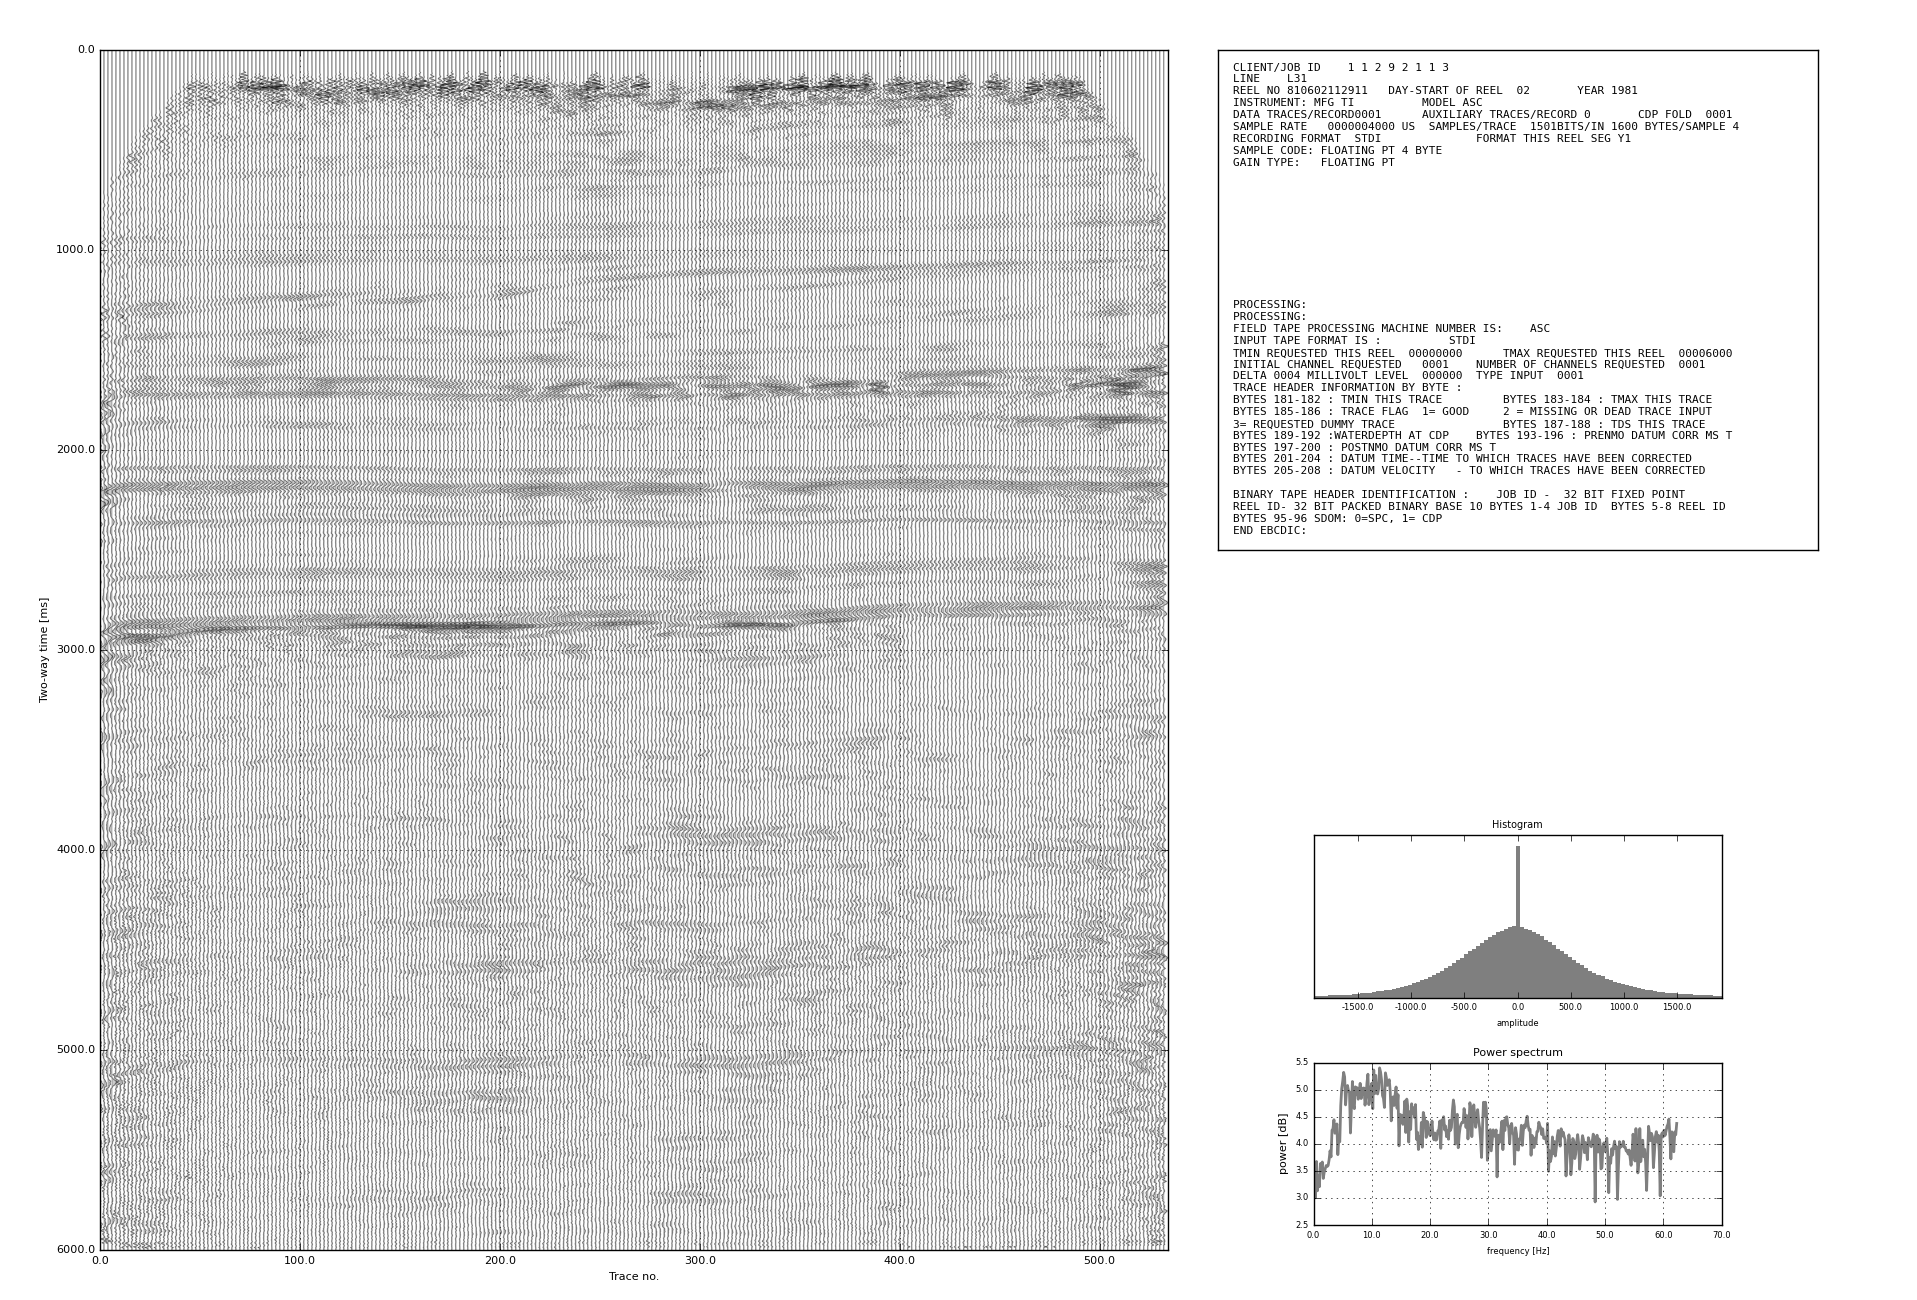
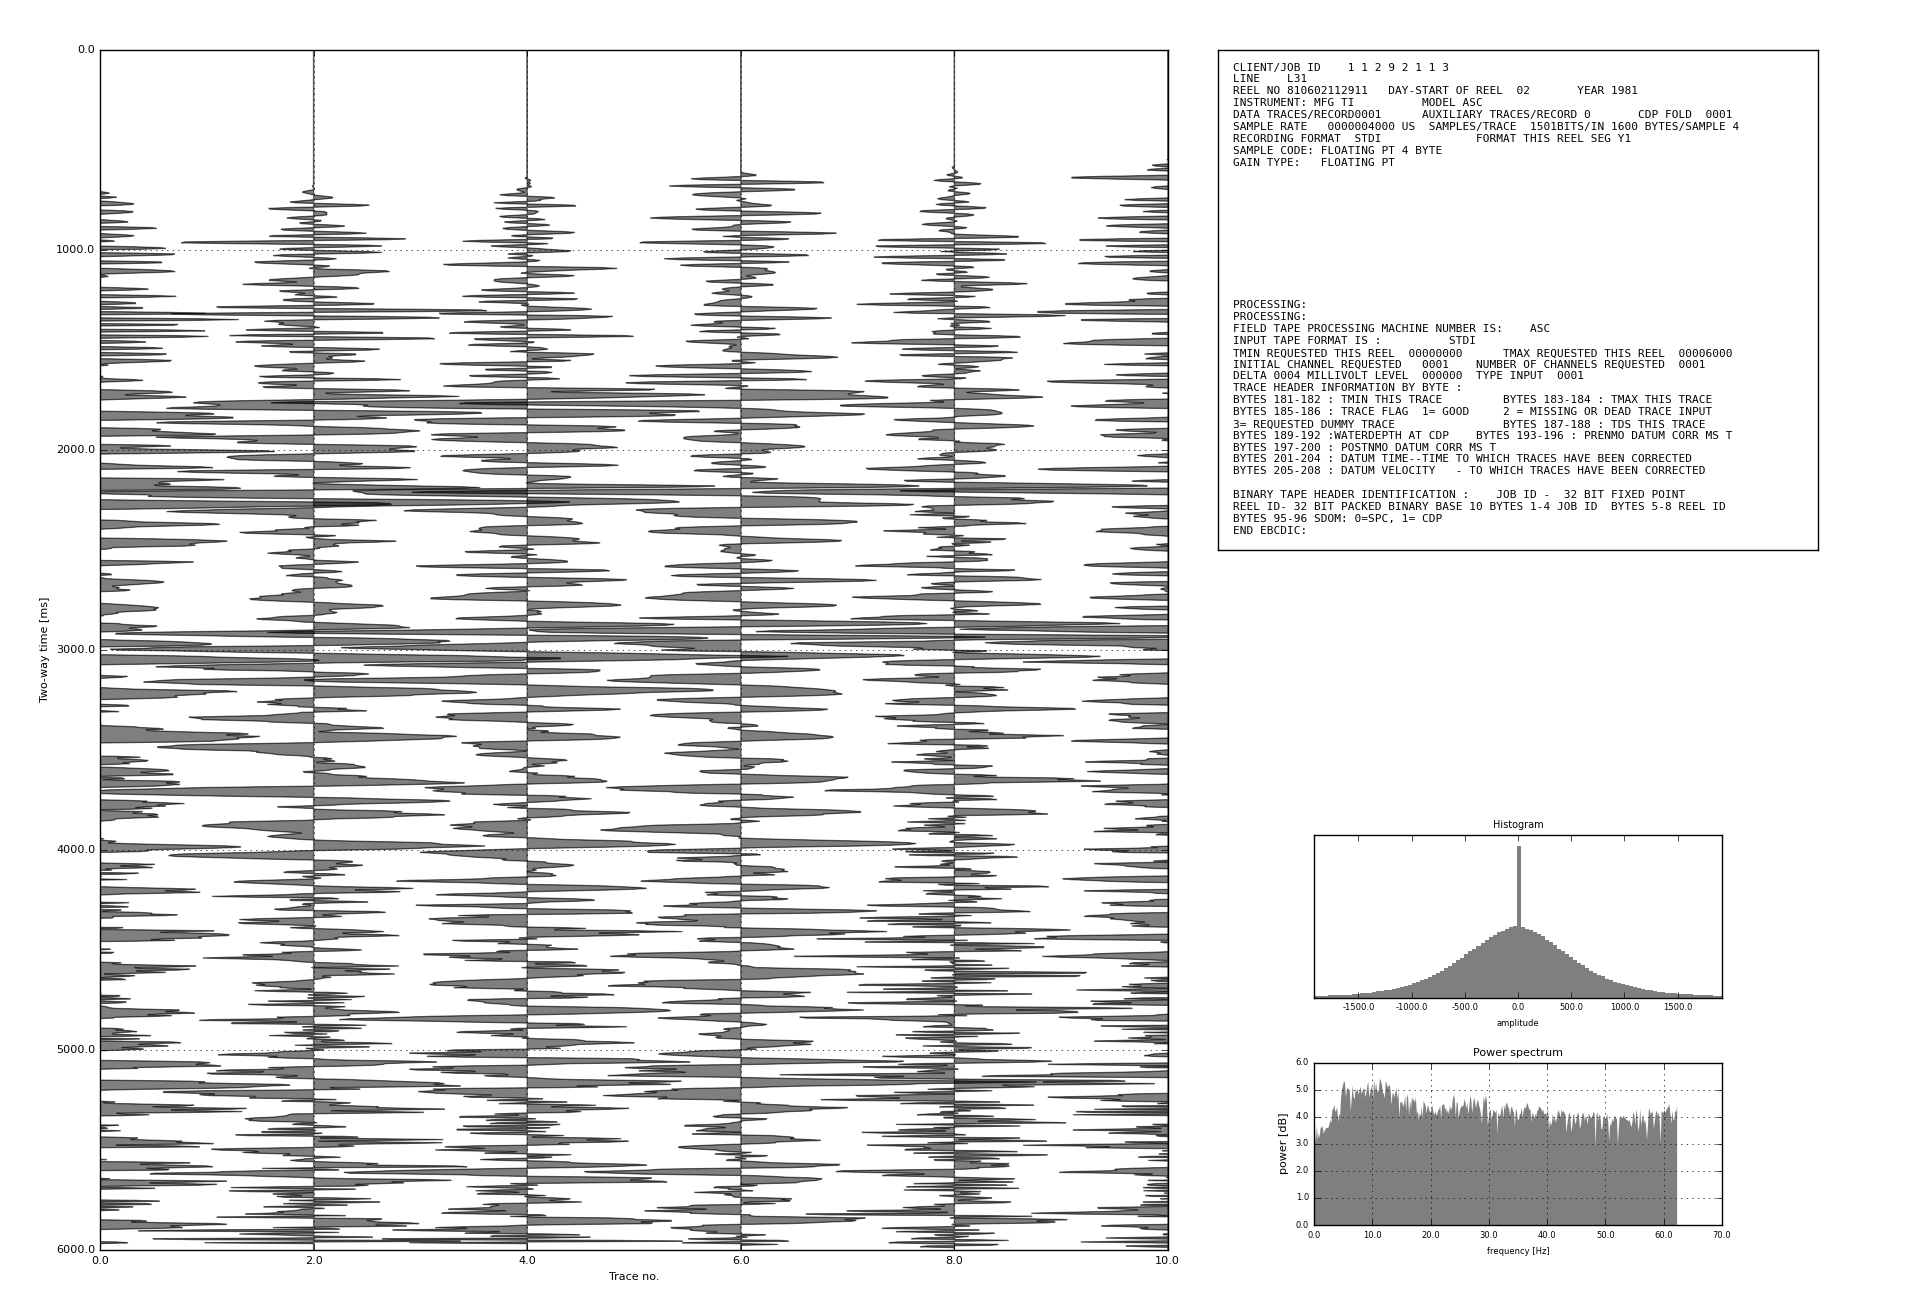
making first release

diff --git a/seisplot.py b/seisplot.py
@@ -15,16 +15,13 @@ import yaml
 import numpy as np
 from scipy import fft
 import matplotlib.pyplot as plt
-import matplotlib.cm as cm
 import matplotlib.font_manager as fm
-from matplotlib.backends.backend_pdf import PdfPages
 
 from obspy.segy.segy import readSEGY
 
 # Import our stuff.
 from notice import Notice
 from utils import add_subplot_axes
-from utils import make_patch_spines_invisible
 
 
 #####################################################################
@@ -33,25 +30,30 @@ from utils import make_patch_spines_invisible
 #
 #####################################################################
 
-def wigplot(ax, data, tbase, ntraces, skip=1, perc=98.0, gain=1.0):
+def wiggle_plot(ax, data, tbase, ntraces, skip=1, perc=98.0, gain=1.0, alpha=0.5):
     """
-    plots wiggle traces of seismic data
-    skip = 1, every trace, skip = 2, every second trace, etc.
+    Plots wiggle traces of seismic data. Skip=1, every trace, skip=2, every
+    second trace, etc.
     """
-    sc = np.percentile(data, perc)  # normalization factor
+    sc = np.percentile(data, perc)  # Normalization factor
     wigdata = data[:, ::skip]
     xpos = np.arange(ntraces)[::skip]
 
     for x, trace in zip(xpos, np.transpose(wigdata)):
         ax.plot(gain * trace / sc + x, tbase, 'k', lw=0.2)
-        ax.fill_betweenx(tbase, gain * trace / sc + x, x2=x, facecolor='k', alpha=0.2)
+        ax.fill_betweenx(tbase,
+                         gain * trace / sc + x,
+                         x2=x, facecolor='k',
+                         alpha=alpha)
     return ax
 
 
-def decorate_seismic(ax, fs=10):
+def decorate_seismic(ax, ntraces, fs=10):
     """
     Add various things to the seismic plot.
     """
+    ax.set_ylim(ax.get_ylim()[::-1])
+    ax.set_xlim([0, ntraces])
     ax.set_ylabel('Two-way time [ms]', fontsize=fs-2)
     ax.set_xlabel('Trace no.', fontsize=fs - 2)
     ax.set_xticklabels(ax.get_xticks(), fontsize=fs - 2)
@@ -94,9 +96,11 @@ def plot_spectrum(spec_ax, data, dt, fs=10):
     """
     S = abs(fft(data[:, 1]))
     faxis = np.fft.fftfreq(len(data[:, 1]), d=dt/10**6)
+    x = faxis[:len(faxis)//4]
+    y = np.log10(S[0:len(faxis)//4])
 
     spec_ax.patch.set_alpha(0.5)
-    spec_ax.plot(faxis[:len(faxis)//4], np.log10(S[0:len(faxis)//4]), 'k', lw=2, alpha=0.5)
+    spec_ax.fill_between(x, y, 0, lw=0, facecolor='k', alpha=0.5)
     spec_ax.set_xlabel('frequency [Hz]', fontsize=fs - 4)
     spec_ax.set_xticklabels(spec_ax.get_xticks(), fontsize=fs - 4)
     spec_ax.set_yticklabels(spec_ax.get_yticks(), fontsize=fs - 4)
@@ -148,7 +152,6 @@ def plot_histogram(hist_ax, data, fs=10):
     largest = max(np.amax(data), abs(np.amin(data)))
     clip_val = np.percentile(data, 99.0)
     hist_ax.patch.set_alpha(0.5)
-    #hist_ax.patch.set_lineweight(0)
     hist_ax.hist(np.ravel(data), bins=int(100.0 / (clip_val / largest)), 
                  alpha=0.5, color=['black'], lw=0)
     hist_ax.set_xlim(-clip_val, clip_val)
@@ -167,26 +170,23 @@ def main(target, cfg):
     # Read the file.
     section = readSEGY(target, unpack_headers=True)
 
-    elev, esp, ens = [], [], []  # energy source point number
-    for i, trace in enumerate(section.traces):
-        nsamples = trace.header.number_of_samples_in_this_trace
-        dt = trace.header.sample_interval_in_ms_for_this_trace
-        elev.append(trace.header.receiver_group_elevation)
-        esp.append(trace.header.energy_source_point_number)
-        ens.append(trace.header.ensemble_number)
-
+    # Calculate some things
+    nsamples = section.traces[0].header.number_of_samples_in_this_trace
+    dt = section.traces[0].header.sample_interval_in_ms_for_this_trace
     ntraces = len(section.traces)
     tbase = 0.001 * np.arange(0, nsamples * dt, dt)
     tstart = 0
     tend = np.amax(tbase)
-    # aspect = float(ntraces) / float(nsamples)
     wsd = ntraces / cfg['tpi']
-    hd = cfg['ips'] * (np.amax(tbase) - np.amin(tbase))/1000
-    aspect = wsd / hd
+
     # Build the data container
+    elev, esp, ens = [], [], []  # energy source point number
     data = np.zeros((nsamples, ntraces))
     for i, trace in enumerate(section.traces):
         data[:, i] = trace.data
+        elev.append(trace.header.receiver_group_elevation)
+        esp.append(trace.header.energy_source_point_number)
+        ens.append(trace.header.ensemble_number)
 
     clip_val = np.percentile(data, 99.0)
 
@@ -216,82 +216,44 @@ def main(target, cfg):
     fhh = 5  # File header height
     m = 0.5  # margin in inches
 
-    # One inch in height and width
-    # oih = 1/h
-    # oiw = 1/w
-
     # Margins, CSS like
     mt, mb, ml, mr = m, m, 2 * m, 2 * m
     mm = mr / 2  # padded margin between seismic and label
 
     # Width is determined by tpi, plus a constant for the sidelabel, plus 1 in
     w = ml + wsd + wsl + mr + mm
+
     # Height is given by ips, but with a minimum of 8 inches, plus 1 in
     h = max(mih, cfg['ips'] * (np.amax(tbase) - np.amin(tbase)) / 1000 + mt + mb)
-    # start of side label (ratio)
-    ssl = (ml + wsd + mm) / w
-    # Set the fontsize
+
+    # More settings
+    ssl = (ml + wsd + mm) / w  # Start of side label (ratio)
     fs = cfg['fontsize']
+
+    Notice.info("Width of plot   {} in".format(w))
+    Notice.info("Height of plot  {} in".format(h))
 
     ##################################
     # Make the figure.
     fig = plt.figure(figsize=(w, h), facecolor='w')
     ax = fig.add_axes([ml / w, mb / h, wsd / w, (h - mb - mt) / h])
-    # par1 = ax.twiny()
-    # par2 = ax.twiny()
 
-    # Offset the top spine of par2.  The ticks and label have already been
-    # placed on the top by twiny above.
-    # fig.subplots_adjust(top=0.75)
-    # par2.spines["top"].set_position(("axes", 1.2))
+    ax = wiggle_plot(ax,
+                     data,
+                     tbase,
+                     ntraces,
+                     skip=cfg['skip'],
+                     gain=cfg['gain'],
+                     alpha=cfg['opacity']
+                     )
 
-    # Having been created by twiny, par2 has its frame off, so the line of its
-    # detached spine is invisible.  First, activate the frame but make the
-    # patch and spines invisible.
-    # par2 = make_patch_spines_invisible(par2)
-
-    # Second, show the right spine.
-    # par2.spines["top"].set_visible(True)
-
-    # p2 = par1.plot(ens, np.zeros_like(ens))
-
-    # par1.set_xlabel("CDP number", fontsize=fs-2)
-    # par2.set_xlabel("source elevation", fontsize=fs-2)
-
-    ax = wigplot(ax, data, tbase, ntraces, skip=cfg['skip'], gain=cfg['gain'])
-    ax.set_ylim(ax.get_ylim()[::-1])
-    ax.set_xlim([0, ntraces])
     ax = decorate_seismic(ax, fs)
-
-    if False:  # imshow option (currently broken)
-        im = ax.imshow(data, cmap='Greys', origin='upper',
-                       vmin=-clip_val,
-                       vmax=clip_val,
-                       # extent=(line_extents['first_trace'],
-                       #        line_extents['last_trace'],
-                       #        line_extents['end_time'],
-                       #       line_extents['start_time'])#,
-                       aspect=hd / wd
-                       )
-        # Decorate the seismic axes
-        ax = decorate_seismic(ax, fs)
-
-        # Plot colorbar.
-        # fig = plot_colourbar(fig, ax, im, data, fs)
-
-    print ('width of plot (inches)', w)
-    print ('height of plot (inches)', h)
 
     # Plot text header.
     s = str(section.textual_file_header)[2:-1]
     start = (h - mt - fhh) / h
     head_ax = fig.add_axes([ssl, start, wsl/w, fhh/h])
     head_ax = plot_header(head_ax, s, fs)
-
-    # Plot blurb.
-    # blurb = "select trace header info goes here \n and here \n and here"
-    # trhead_ax = fig.add_axes([0.760, 0.37, 0.225, 0.165], axisbg='w')
-    # trhead_ax = plot_trace_info(trhead_ax, blurb, fs)
 
     # Plot histogram.
     pad = 0.05

diff --git a/notice.py b/notice.py
@@ -35,7 +35,7 @@ Welcome to
 └─┐├┤ │└─┐├─┘│  │ │ │ 
 └─┘└─┘┴└─┘┴  ┴─┘└─┘ ┴ 
              Good luck"""
-        return cls(logo, 'WARNING')
+        return cls(logo, 'FAIL')
 
     @classmethod
     def warning(cls, string, hold=False):
